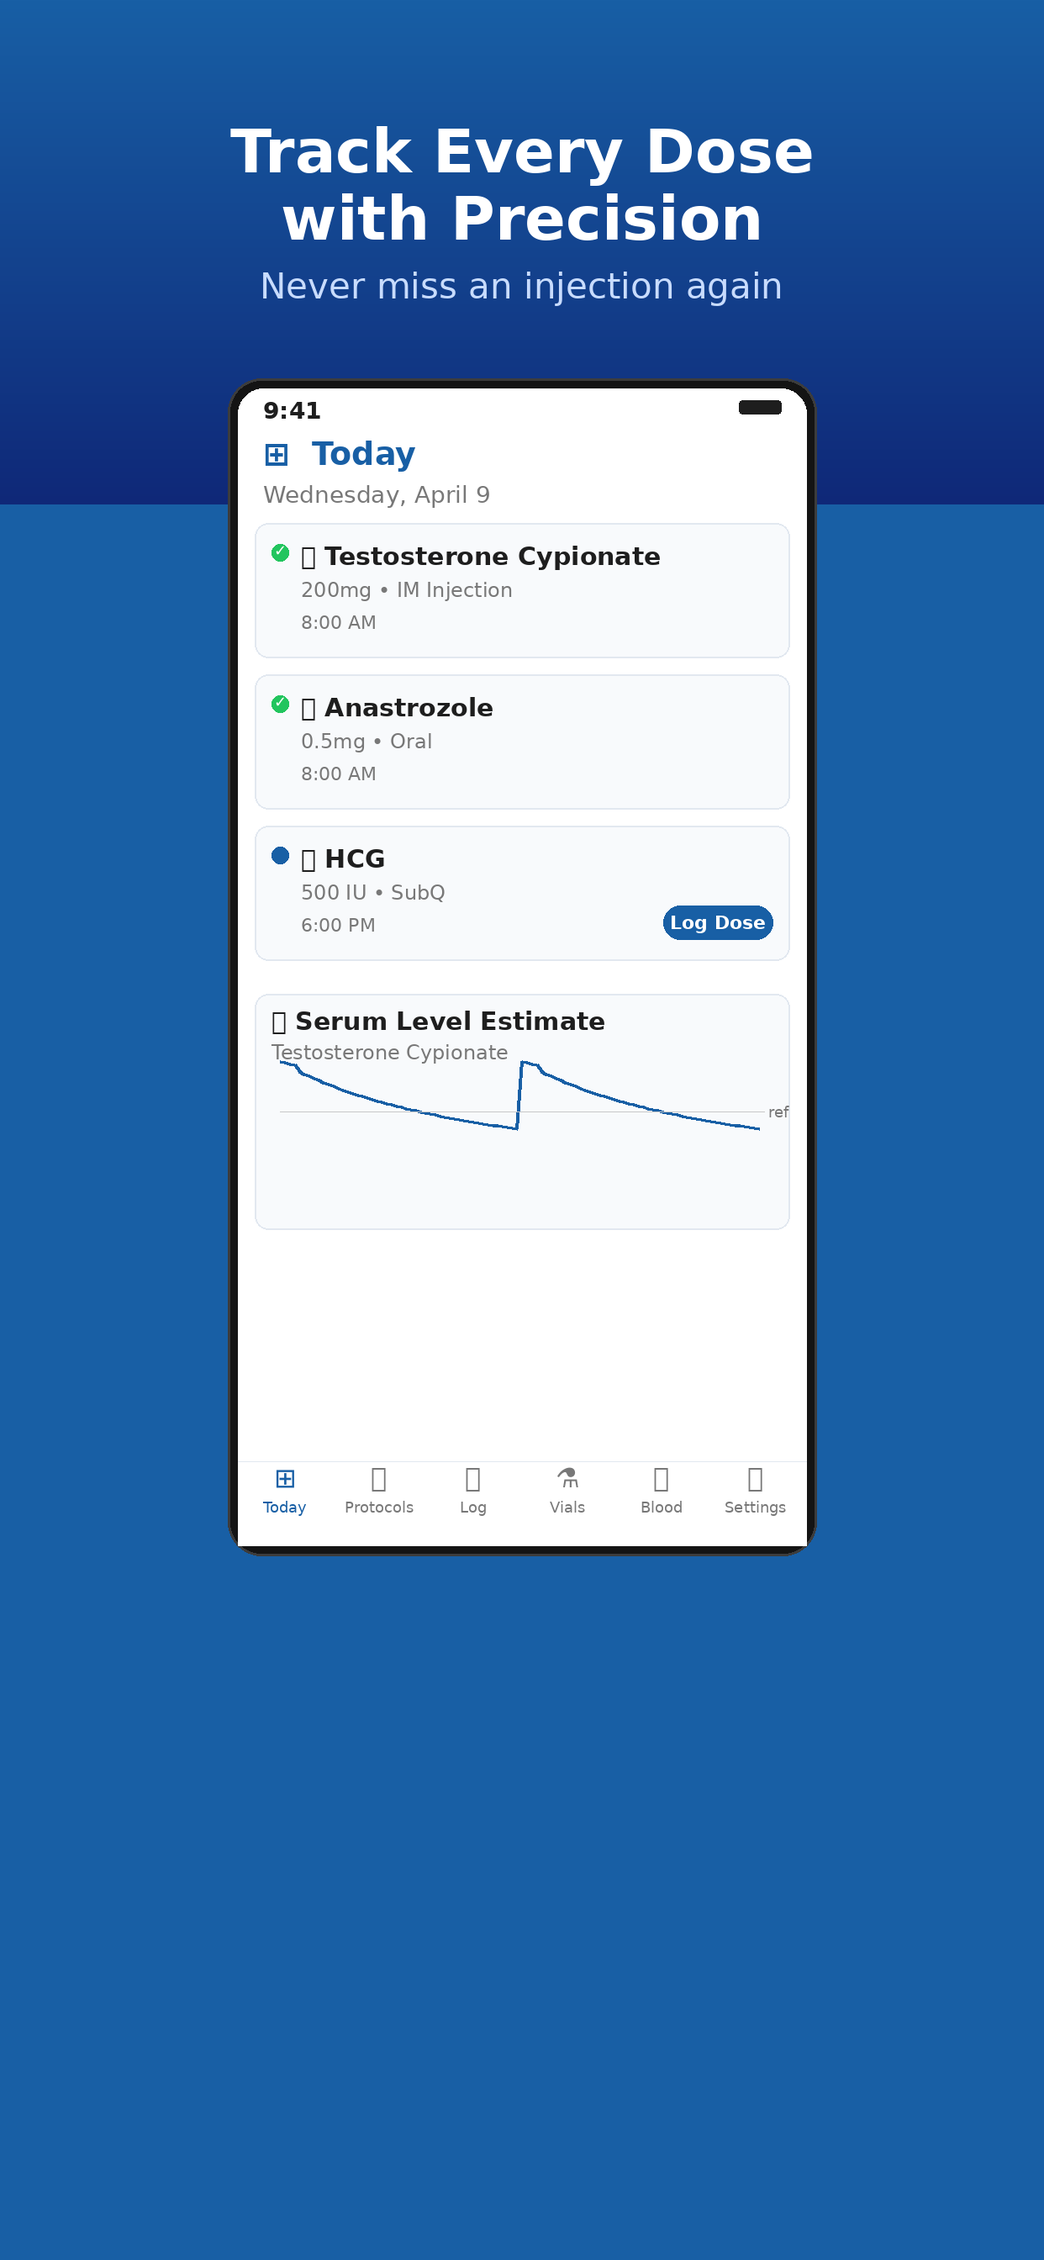
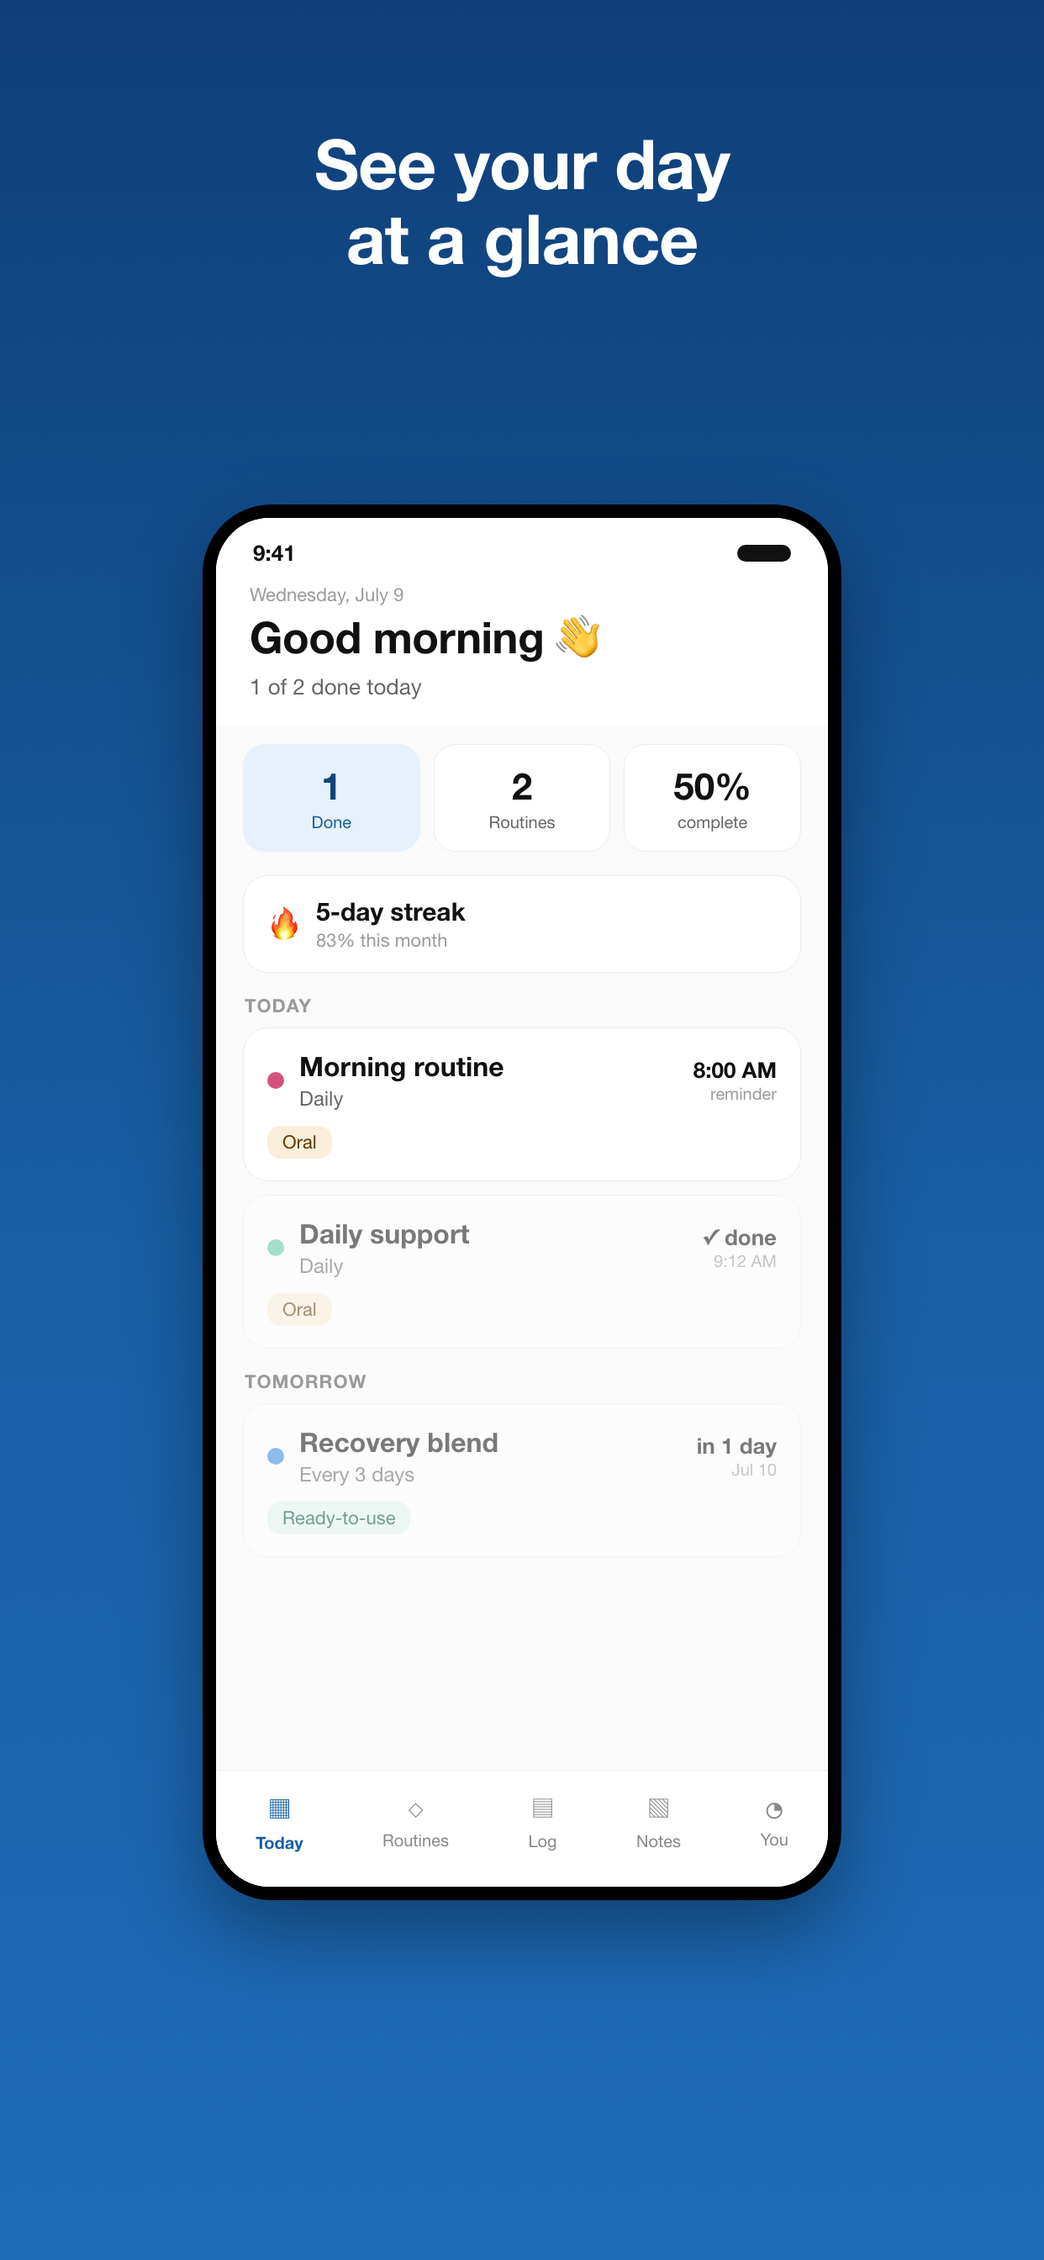
Store assets: regenerate screenshots + feature graphic (wellness carve-out)
Replaces the medical-framed App Store screenshots and Play feature graphic that
contradicted the new wellness ASC copy (and risked a 1.4.1 rejection). New set:
5 screenshots (1242x2688) + 6.7-inch copies (1290x2796) + feature graphic
(1024x500), neutral sample data (no drug names/doses/injection/serum chart),
softened tab labels, current app UI, correct phone aspect ratio. Reproducible
HTML -> headless-Chrome renders (sources in screenshots_v2/). Removed stale
medical Play phone/tablet assets. Synced to Drive.

diff --git a/screenshots_v2/base.css b/screenshots_v2/base.css
@@ -1,0 +1,77 @@
+* { margin:0; padding:0; box-sizing:border-box; -webkit-font-smoothing:antialiased; }
+html,body { width:1242px; height:2688px; }
+body {
+  font-family:-apple-system,"SF Pro Display","Helvetica Neue",Arial,sans-serif;
+  background:linear-gradient(180deg,#0f3f78 0%,#185FA5 55%,#1E6BB8 100%);
+  overflow:hidden;
+}
+.caption { text-align:center; padding:150px 90px 0; }
+.caption h1 { color:#fff; font-size:82px; font-weight:800; line-height:1.08; letter-spacing:-1px; }
+.phone {
+  position:absolute; left:50%; transform:translateX(-50%); top:600px;
+  width:760px; height:1660px; background:#000; border-radius:82px; padding:16px;
+  box-shadow:0 40px 90px rgba(0,0,0,.35);
+}
+.screen { width:100%; height:100%; background:#fafafa; border-radius:64px; overflow:hidden; position:relative; }
+.statusbar { display:flex; justify-content:space-between; align-items:center; padding:26px 44px 6px; font-size:26px; font-weight:600; color:#111; background:#fff; }
+.statusbar .dot { width:64px; height:20px; background:#111; border-radius:10px; }
+.hdr { background:#fff; padding:14px 40px 30px; }
+.hdr.row { display:flex; align-items:center; justify-content:space-between; }
+.hdr .date { font-size:22px; color:#9a9a9a; }
+.hdr .greet { font-size:52px; font-weight:800; color:#111; margin-top:4px; letter-spacing:-.5px; }
+.hdr .title { font-size:48px; font-weight:800; color:#111; }
+.hdr .sub { font-size:26px; color:#666; margin-top:8px; }
+.addbtn { background:#185FA5; color:#fff; font-size:24px; font-weight:600; padding:14px 26px; border-radius:20px; }
+.stats { display:flex; gap:16px; padding:22px 32px; }
+.stat { flex:1; border-radius:26px; padding:22px 0; text-align:center; background:#fff; border:1px solid #ececec; }
+.stat.hl { background:#E6F1FB; border-color:#E6F1FB; }
+.stat.green { background:#E1F5EE; border-color:#E1F5EE; }
+.stat.red { background:#FCEBEB; border-color:#FCEBEB; }
+.stat.amber { background:#FAEEDA; border-color:#FAEEDA; }
+.stat .v { font-size:44px; font-weight:700; color:#111; }
+.stat.hl .v { color:#0C447C; } .stat.green .v { color:#085041; } .stat.red .v { color:#A32D2D; } .stat.amber .v { color:#633806; }
+.stat .l { font-size:20px; color:#666; margin-top:4px; }
+.stat.hl .l { color:#185FA5; } .stat.green .l { color:#0F6E56; } .stat.red .l { color:#A32D2D; } .stat.amber .l { color:#BA7517; }
+.sec { font-size:22px; font-weight:700; letter-spacing:1px; color:#9a9a9a; margin:26px 34px 12px; }
+.streak { margin:6px 32px 4px; background:#fff; border:1px solid #ececec; border-radius:30px; padding:24px 28px; display:flex; align-items:center; gap:18px; }
+.streak .fire { font-size:40px; }
+.streak .st { font-size:30px; font-weight:700; color:#111; }
+.streak .ss { font-size:22px; color:#9a9a9a; margin-top:2px; }
+.card { background:#fff; border:1px solid #ececec; border-radius:30px; margin:0 32px 16px; padding:26px 28px; }
+.card.dim { opacity:.55; }
+.crow { display:flex; align-items:center; gap:18px; }
+.dot { width:20px; height:20px; border-radius:50%; flex:none; }
+.info { flex:1; }
+.name { font-size:32px; font-weight:700; color:#111; }
+.meta { font-size:24px; color:#666; margin-top:4px; }
+.chev { font-size:24px; color:#c4c4c4; }
+.time { text-align:right; }
+.time .t { font-size:26px; color:#111; font-weight:600; }
+.time .r { font-size:20px; color:#9a9a9a; }
+.badge { display:inline-block; margin-top:18px; font-size:22px; padding:6px 18px; border-radius:16px; }
+.b-oral { background:#FAEEDA; color:#633806; }
+.b-rtu { background:#E1F5EE; color:#085041; }
+.b-lyo { background:#E6F1FB; color:#0C447C; }
+.detail { display:flex; justify-content:space-between; padding:20px 0; border-bottom:1px solid #f2f2f2; }
+.detail .k { font-size:24px; color:#666; }
+.detail .val { font-size:24px; color:#111; font-weight:600; }
+.notebox { background:#f5f5f6; border-radius:24px; padding:24px 26px; margin-top:22px; }
+.notebox .nl { font-size:20px; color:#9a9a9a; font-weight:600; letter-spacing:.5px; margin-bottom:10px; }
+.notebox .nt { font-size:26px; color:#333; line-height:1.5; }
+.pills { display:flex; gap:14px; padding:6px 32px 18px; }
+.pill { font-size:22px; padding:12px 24px; border-radius:24px; background:#f0f0f0; color:#555; }
+.pill.on { background:#185FA5; color:#fff; font-weight:600; }
+.logentry { background:#fff; border:1px solid #ececec; border-radius:26px; margin:0 32px 14px; padding:22px 26px; display:flex; align-items:center; gap:16px; }
+.logdot { width:16px; height:16px; border-radius:50%; flex:none; }
+.logbadge { font-size:20px; padding:6px 16px; border-radius:14px; }
+.notif { margin:22px 30px 0; background:rgba(255,255,255,.94); border-radius:36px; padding:26px 28px; display:flex; gap:20px; align-items:center; box-shadow:0 14px 40px rgba(0,0,0,.18); }
+.notif .icon { width:76px; height:76px; border-radius:20px; background:#185FA5; color:#fff; font-size:40px; display:flex; align-items:center; justify-content:center; flex:none; }
+.notif .nb { flex:1; }
+.notif .nrow { display:flex; justify-content:space-between; }
+.notif .app { font-size:22px; font-weight:700; color:#111; letter-spacing:.5px; }
+.notif .when { font-size:20px; color:#9a9a9a; }
+.notif .msg { font-size:26px; color:#333; margin-top:6px; line-height:1.35; }
+.tabbar { position:absolute; bottom:0; left:0; right:0; background:#fff; border-top:1px solid #ececec; display:flex; justify-content:space-around; padding:26px 0 40px; }
+.tab { text-align:center; font-size:20px; color:#888; }
+.tab.on { color:#185FA5; font-weight:600; }
+.tab .ic { font-size:32px; display:block; margin-bottom:6px; }

diff --git a/screenshots_v2/feature.html b/screenshots_v2/feature.html
@@ -1,0 +1,37 @@
+<!doctype html><html><head><meta charset="utf-8"><style>
+  * { margin:0; padding:0; box-sizing:border-box; -webkit-font-smoothing:antialiased; }
+  html,body { width:1024px; height:500px; }
+  body { font-family:-apple-system,"SF Pro Display","Helvetica Neue",Arial,sans-serif;
+    background:linear-gradient(120deg,#0f3f78 0%,#185FA5 60%,#2E7BC4 100%); overflow:hidden; position:relative; }
+  .wrap { position:absolute; left:70px; top:0; height:500px; display:flex; flex-direction:column; justify-content:center; width:620px; }
+  .brand { display:flex; align-items:center; gap:18px; margin-bottom:22px; }
+  .logo { width:70px; height:70px; border-radius:18px; background:#fff; display:flex; align-items:center; justify-content:center; }
+  .logo span { font-size:44px; }
+  .name { font-size:52px; font-weight:800; color:#fff; letter-spacing:-.5px; }
+  .tag { font-size:38px; font-weight:600; color:#fff; line-height:1.2; }
+  .pills { display:flex; gap:14px; margin-top:28px; }
+  .pill { font-size:22px; color:#0f3f78; background:#dbeafe; padding:12px 22px; border-radius:22px; font-weight:600; }
+  .phone { position:absolute; right:-30px; top:70px; width:300px; height:600px; background:#000; border-radius:44px; padding:9px; transform:rotate(-8deg); box-shadow:0 30px 60px rgba(0,0,0,.35); }
+  .scr { width:100%; height:100%; background:#fafafa; border-radius:36px; overflow:hidden; }
+  .sh { background:#fff; padding:26px 22px 16px; }
+  .sh .g { font-size:26px; font-weight:800; color:#111; }
+  .sh .s { font-size:15px; color:#888; margin-top:3px; }
+  .mc { background:#fff; border:1px solid #ececec; border-radius:18px; margin:12px 16px; padding:16px; }
+  .mc .n { font-size:19px; font-weight:700; color:#111; }
+  .mc .m { font-size:14px; color:#888; margin-top:2px; }
+  .mc .bd { display:inline-block; margin-top:10px; font-size:13px; padding:3px 12px; border-radius:10px; background:#FAEEDA; color:#633806; }
+  .lbl { font-size:13px; font-weight:700; letter-spacing:1px; color:#aaa; margin:14px 18px 4px; }
+</style></head><body>
+  <div class="wrap">
+    <div class="brand"><div class="logo"><span>🗓</span></div><div class="name">DoseTrace</div></div>
+    <div class="tag">A simple, private journal<br>for your everyday routines</div>
+    <div class="pills"><div class="pill">Reminders</div><div class="pill">Daily log</div><div class="pill">Private &amp; offline</div></div>
+  </div>
+  <div class="phone"><div class="scr">
+    <div class="sh"><div class="g">Good morning 👋</div><div class="s">1 of 2 done today</div></div>
+    <div class="lbl">TODAY</div>
+    <div class="mc"><div class="n">Morning routine</div><div class="m">Daily · 8:00 AM</div><span class="bd">Oral</span></div>
+    <div class="lbl">TOMORROW</div>
+    <div class="mc" style="opacity:.6"><div class="n">Recovery blend</div><div class="m">Every 3 days</div><span class="bd" style="background:#E1F5EE;color:#085041">Ready-to-use</span></div>
+  </div></div>
+</body></html>

diff --git a/screenshots_v2/shot4.html b/screenshots_v2/shot4.html
@@ -1,0 +1,37 @@
+<!doctype html><html><head><meta charset="utf-8"><link rel="stylesheet" href="base.css"></head><body>
+<div class="caption"><h1>Look back<br>anytime</h1></div>
+<div class="phone"><div class="screen">
+  <div class="statusbar"><span>9:41</span><span class="dot"></span></div>
+  <div class="hdr"><div class="title">Log</div></div>
+  <div class="stats">
+    <div class="stat green"><div class="v">24</div><div class="l">Done</div></div>
+    <div class="stat red"><div class="v">2</div><div class="l">Skipped</div></div>
+    <div class="stat amber"><div class="v">1</div><div class="l">Late</div></div>
+  </div>
+  <div class="pills"><div class="pill on">All</div><div class="pill">Done</div><div class="pill">Skipped</div></div>
+  <div class="sec" style="margin-top:8px">WEDNESDAY, JULY 9</div>
+  <div class="logentry"><span class="logdot" style="background:#1D9E75"></span>
+    <div class="info"><div class="name" style="font-size:28px">Morning routine</div><div class="meta" style="font-size:21px">📝 Take with breakfast</div></div>
+    <div class="time"><div class="t" style="font-size:22px">9:12 AM</div></div>
+    <span class="logbadge b-rtu">Done</span></div>
+  <div class="logentry"><span class="logdot" style="background:#5DCAA5"></span>
+    <div class="info"><div class="name" style="font-size:28px">Daily support</div></div>
+    <div class="time"><div class="t" style="font-size:22px">9:05 AM</div></div>
+    <span class="logbadge b-rtu">Done</span></div>
+  <div class="sec">TUESDAY, JULY 8</div>
+  <div class="logentry"><span class="logdot" style="background:#D4537E"></span>
+    <div class="info"><div class="name" style="font-size:28px">Morning routine</div></div>
+    <div class="time"><div class="t" style="font-size:22px">8:20 AM</div></div>
+    <span class="logbadge b-rtu">Done</span></div>
+  <div class="logentry"><span class="logdot" style="background:#378ADD"></span>
+    <div class="info"><div class="name" style="font-size:28px">Recovery blend</div></div>
+    <div class="time"><div class="t" style="font-size:22px">7:30 PM</div></div>
+    <span class="logbadge b-amber" style="background:#FAEEDA;color:#633806">Late</span></div>
+  <div class="tabbar">
+    <div class="tab"><span class="ic">▦</span>Today</div>
+    <div class="tab"><span class="ic">◇</span>Routines</div>
+    <div class="tab on"><span class="ic">▤</span>Log</div>
+    <div class="tab"><span class="ic">▧</span>Notes</div>
+    <div class="tab"><span class="ic">◔</span>You</div>
+  </div>
+</div></div></body></html>

diff --git a/screenshots_v2/shot1.html b/screenshots_v2/shot1.html
@@ -1,0 +1,43 @@
+<!doctype html><html><head><meta charset="utf-8"><link rel="stylesheet" href="base.css"></head><body>
+<div class="caption"><h1>See your day<br>at a glance</h1></div>
+<div class="phone"><div class="screen">
+  <div class="statusbar"><span>9:41</span><span class="dot"></span></div>
+  <div class="hdr">
+    <div class="date">Wednesday, July 9</div>
+    <div class="greet">Good morning 👋</div>
+    <div class="sub">1 of 2 done today</div>
+  </div>
+  <div class="stats">
+    <div class="stat hl"><div class="v">1</div><div class="l">Done</div></div>
+    <div class="stat"><div class="v">2</div><div class="l">Routines</div></div>
+    <div class="stat"><div class="v">50%</div><div class="l">complete</div></div>
+  </div>
+  <div class="streak"><span class="fire">🔥</span><div><div class="st">5-day streak</div><div class="ss">83% this month</div></div></div>
+  <div class="sec">TODAY</div>
+  <div class="card">
+    <div class="crow"><span class="dot" style="background:#D4537E"></span>
+      <div class="info"><div class="name">Morning routine</div><div class="meta">Daily</div></div>
+      <div class="time"><div class="t">8:00 AM</div><div class="r">reminder</div></div></div>
+    <span class="badge b-oral">Oral</span>
+  </div>
+  <div class="card dim">
+    <div class="crow"><span class="dot" style="background:#5DCAA5"></span>
+      <div class="info"><div class="name">Daily support</div><div class="meta">Daily</div></div>
+      <div class="time"><div class="t">✓ done</div><div class="r">9:12 AM</div></div></div>
+    <span class="badge b-oral">Oral</span>
+  </div>
+  <div class="sec">TOMORROW</div>
+  <div class="card dim">
+    <div class="crow"><span class="dot" style="background:#378ADD"></span>
+      <div class="info"><div class="name">Recovery blend</div><div class="meta">Every 3 days</div></div>
+      <div class="time"><div class="t">in 1 day</div><div class="r">Jul 10</div></div></div>
+    <span class="badge b-rtu">Ready-to-use</span>
+  </div>
+  <div class="tabbar">
+    <div class="tab on"><span class="ic">▦</span>Today</div>
+    <div class="tab"><span class="ic">◇</span>Routines</div>
+    <div class="tab"><span class="ic">▤</span>Log</div>
+    <div class="tab"><span class="ic">▧</span>Notes</div>
+    <div class="tab"><span class="ic">◔</span>You</div>
+  </div>
+</div></div></body></html>

diff --git a/screenshots_v2/shot2.html b/screenshots_v2/shot2.html
@@ -1,0 +1,40 @@
+<!doctype html><html><head><meta charset="utf-8"><link rel="stylesheet" href="base.css"></head><body>
+<div class="caption"><h1>Build your<br>own routine</h1></div>
+<div class="phone"><div class="screen">
+  <div class="statusbar"><span>9:41</span><span class="dot"></span></div>
+  <div class="hdr row"><div class="title">Routines</div><div class="addbtn">+ Add</div></div>
+  <div class="pills">
+    <div class="pill on">Due next</div><div class="pill">A–Z</div><div class="pill">By type</div>
+  </div>
+  <div class="card">
+    <div class="crow"><span class="dot" style="background:#D4537E"></span>
+      <div class="info"><div class="name">Morning routine</div><div class="meta">Daily · 8:00 AM</div></div>
+      <span class="chev">›</span></div>
+    <span class="badge b-oral">Oral</span>
+  </div>
+  <div class="card">
+    <div class="crow"><span class="dot" style="background:#378ADD"></span>
+      <div class="info"><div class="name">Recovery blend</div><div class="meta">Every 3 days · 7:00 PM</div></div>
+      <span class="chev">›</span></div>
+    <span class="badge b-rtu">Ready-to-use</span>
+  </div>
+  <div class="card">
+    <div class="crow"><span class="dot" style="background:#5DCAA5"></span>
+      <div class="info"><div class="name">Daily support</div><div class="meta">Daily · 9:00 AM</div></div>
+      <span class="chev">›</span></div>
+    <span class="badge b-oral">Oral</span>
+  </div>
+  <div class="card">
+    <div class="crow"><span class="dot" style="background:#BA7517"></span>
+      <div class="info"><div class="name">Weekend reset</div><div class="meta">Weekly · Sat 10:00 AM</div></div>
+      <span class="chev">›</span></div>
+    <span class="badge b-rtu">Ready-to-use</span>
+  </div>
+  <div class="tabbar">
+    <div class="tab"><span class="ic">▦</span>Today</div>
+    <div class="tab on"><span class="ic">◇</span>Routines</div>
+    <div class="tab"><span class="ic">▤</span>Log</div>
+    <div class="tab"><span class="ic">▧</span>Notes</div>
+    <div class="tab"><span class="ic">◔</span>You</div>
+  </div>
+</div></div></body></html>

diff --git a/screenshots_v2/shot5.html b/screenshots_v2/shot5.html
@@ -1,0 +1,37 @@
+<!doctype html><html><head><meta charset="utf-8"><link rel="stylesheet" href="base.css"></head><body>
+<div class="caption"><h1>A gentle nudge<br>for what's next</h1></div>
+<div class="phone"><div class="screen">
+  <div class="statusbar"><span>9:41</span><span class="dot"></span></div>
+  <div class="notif">
+    <div class="icon">☀</div>
+    <div class="nb">
+      <div class="nrow"><span class="app">DOSETRACE</span><span class="when">now</span></div>
+      <div class="msg">Good morning — your day is ready. First routine at 8:00 AM.</div>
+    </div>
+  </div>
+  <div class="hdr" style="margin-top:20px">
+    <div class="date">Wednesday, July 9</div>
+    <div class="greet">Good morning 👋</div>
+    <div class="sub">2 routines today</div>
+  </div>
+  <div class="sec">TODAY</div>
+  <div class="card">
+    <div class="crow"><span class="dot" style="background:#D4537E"></span>
+      <div class="info"><div class="name">Morning routine</div><div class="meta">Daily</div></div>
+      <div class="time"><div class="t">8:00 AM</div><div class="r">🔔 reminder</div></div></div>
+    <span class="badge b-oral">Oral</span>
+  </div>
+  <div class="card">
+    <div class="crow"><span class="dot" style="background:#5DCAA5"></span>
+      <div class="info"><div class="name">Daily support</div><div class="meta">Daily</div></div>
+      <div class="time"><div class="t">9:00 AM</div><div class="r">🔔 reminder</div></div></div>
+    <span class="badge b-oral">Oral</span>
+  </div>
+  <div class="tabbar">
+    <div class="tab on"><span class="ic">▦</span>Today</div>
+    <div class="tab"><span class="ic">◇</span>Routines</div>
+    <div class="tab"><span class="ic">▤</span>Log</div>
+    <div class="tab"><span class="ic">▧</span>Notes</div>
+    <div class="tab"><span class="ic">◔</span>You</div>
+  </div>
+</div></div></body></html>

diff --git a/screenshots_v2/shot3.html b/screenshots_v2/shot3.html
@@ -1,0 +1,25 @@
+<!doctype html><html><head><meta charset="utf-8"><link rel="stylesheet" href="base.css"></head><body>
+<div class="caption"><h1>Keep notes where<br>you'll find them</h1></div>
+<div class="phone"><div class="screen">
+  <div class="statusbar"><span>9:41</span><span class="dot"></span></div>
+  <div class="hdr"><div class="greet" style="font-size:44px">Morning routine</div>
+    <div class="sub"><span class="dot" style="display:inline-block;width:18px;height:18px;background:#D4537E;vertical-align:middle;margin-right:10px"></span>Daily · Oral</div>
+  </div>
+  <div class="card" style="margin-top:14px">
+    <div class="detail"><span class="k">Frequency</span><span class="val">Daily</span></div>
+    <div class="detail"><span class="k">Reminder</span><span class="val">8:00 AM</span></div>
+    <div class="detail"><span class="k">Started</span><span class="val">Jun 12</span></div>
+    <div class="detail" style="border-bottom:none"><span class="k">Goal</span><span class="val">Wellness</span></div>
+    <div class="notebox">
+      <div class="nl">NOTES</div>
+      <div class="nt">Take with breakfast and a full glass of water. Keep refrigerated after opening. Reorder when about a week is left.</div>
+    </div>
+  </div>
+  <div class="tabbar">
+    <div class="tab"><span class="ic">▦</span>Today</div>
+    <div class="tab on"><span class="ic">◇</span>Routines</div>
+    <div class="tab"><span class="ic">▤</span>Log</div>
+    <div class="tab"><span class="ic">▧</span>Notes</div>
+    <div class="tab"><span class="ic">◔</span>You</div>
+  </div>
+</div></div></body></html>
